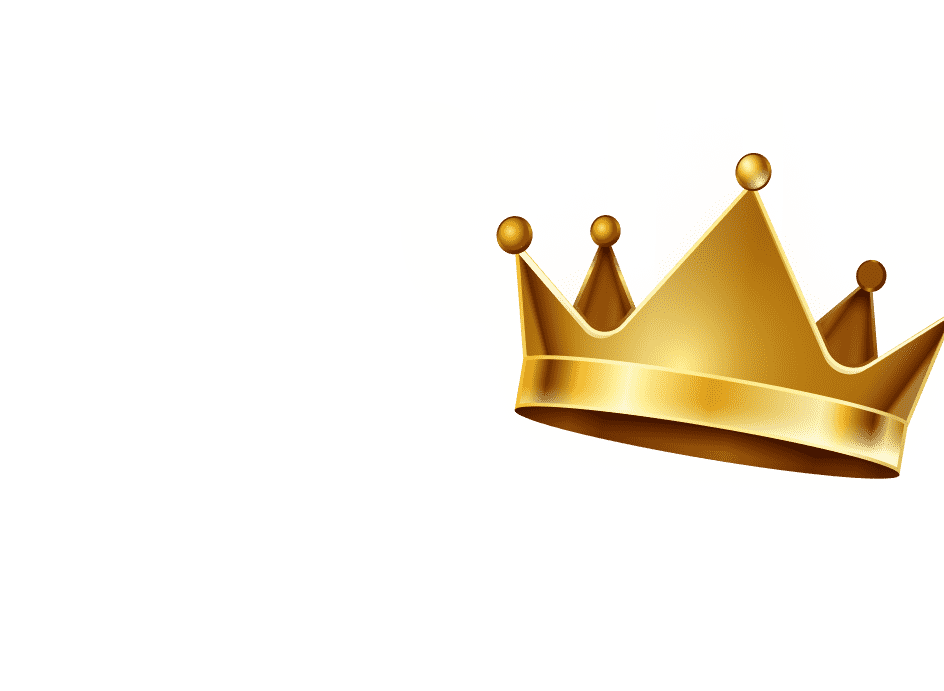
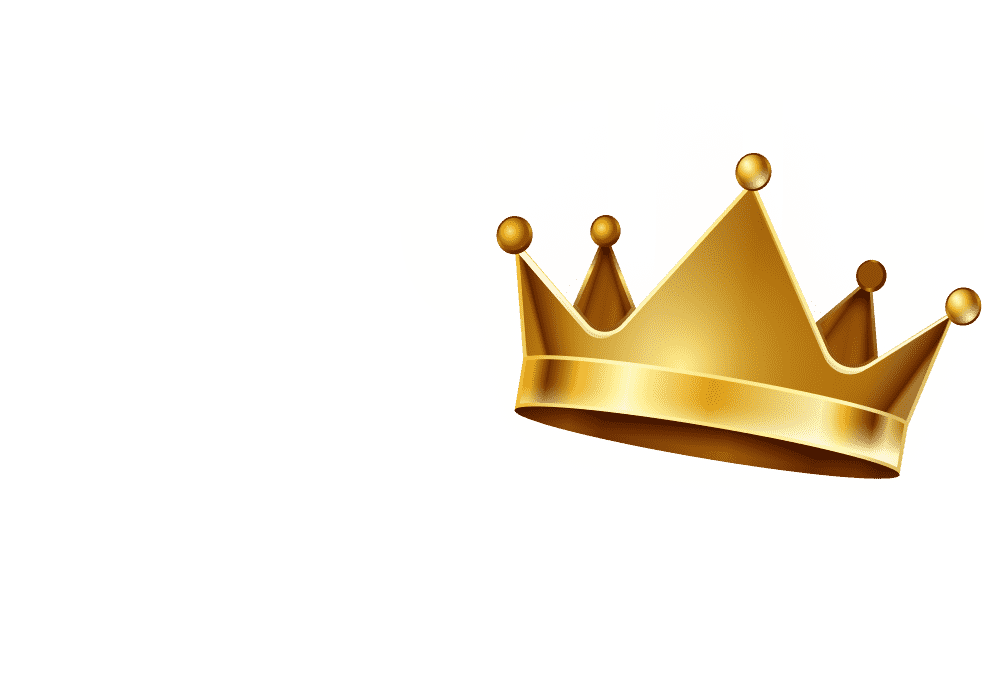
fix vip invite crown position

Changed region(s): [[0.4915, 0.2127, 1.0, 0.699]]

diff --git a/src/components/invite/inviteCard.tsx b/src/components/invite/inviteCard.tsx
@@ -293,6 +293,7 @@ export default function InviteCard({ userState = {} }: Props) {
             style={{
               paddingTop: 45,
               gap: 10,
+              height: 180
             }}
           >
             <Text style={{ color: "#ffffff", fontSize: 28, fontWeight: "700" }}>
@@ -306,6 +307,8 @@ export default function InviteCard({ userState = {} }: Props) {
             style={{
               height: 180,
               width: 240,
+              right: 0, 
+              position: 'absolute'
             }}
             resizeMode={"contain"}
           />
